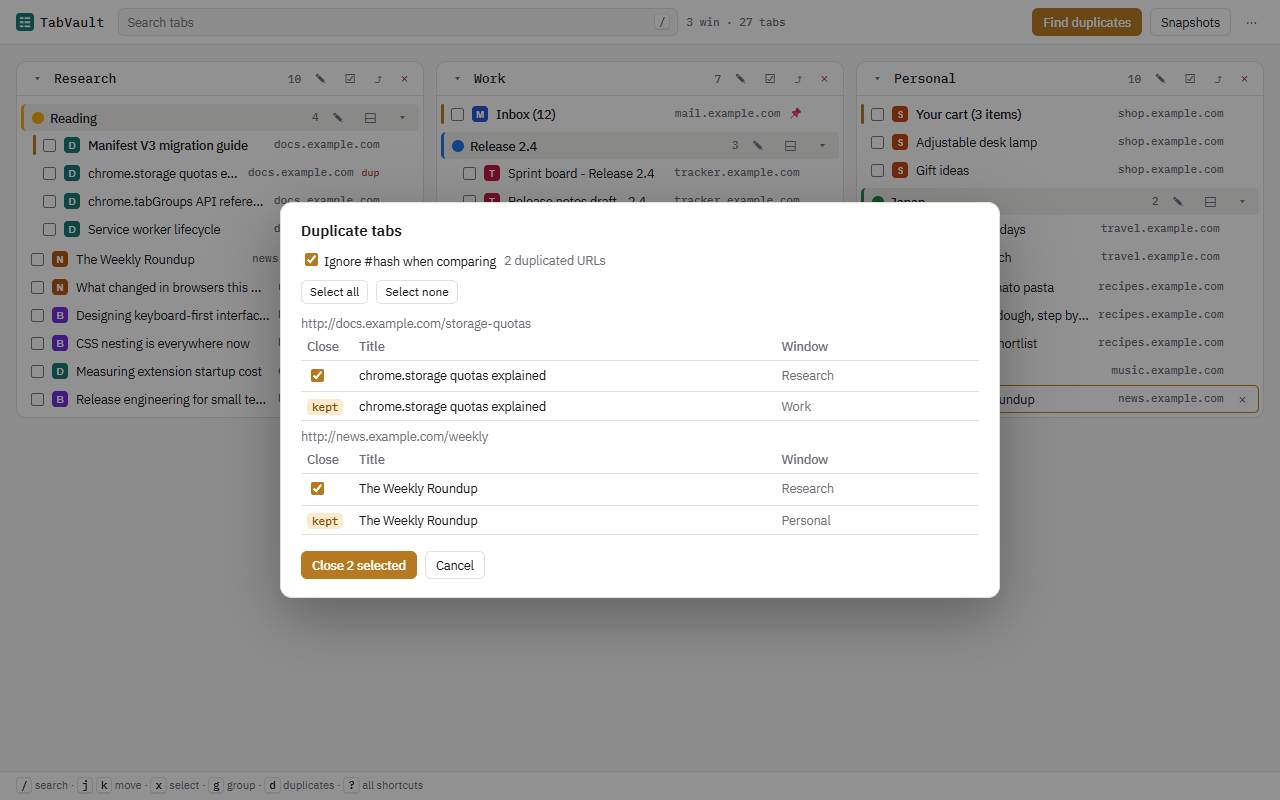
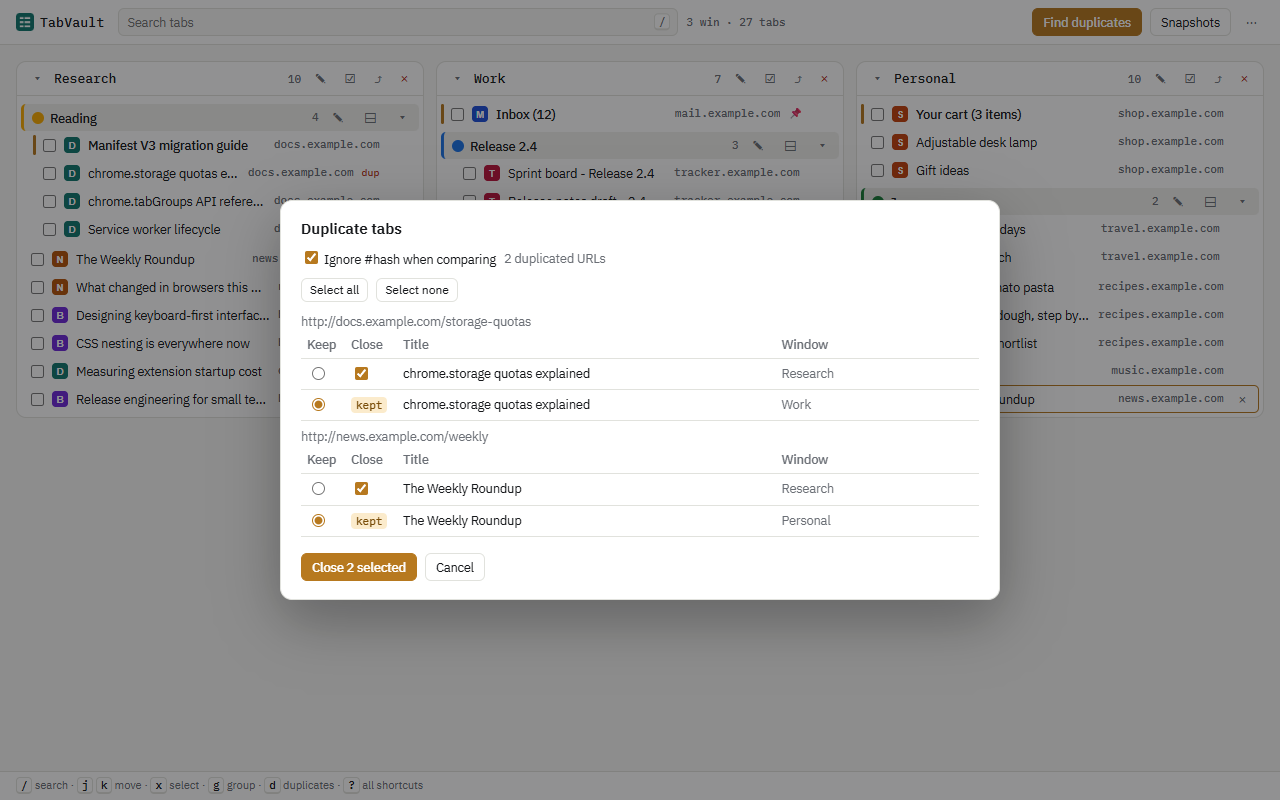
Duplicates: restore the per-group Keep choice
Fix round 1. Each row has a Keep radio again (the lib/dedupe.js pick is the
default); the kept row shows the "kept" marker and no checkbox, every other
row has a close checkbox, ticked by default. Changing Keep moves the marker
and gives the previously kept row a ticked checkbox. Select all / none and
"Close N selected" work over the non-kept rows.

e2e T now moves Keep in one group and asserts the newly kept tab survives,
the previously kept one is closed and the unticked duplicate survives.
Store listing, README and HISTORY describe the keep choice again;
screenshot 04 re-shot.

Claude-Session: https://claude.ai/code/session_01UNR1Jj1F1e65B68YPwVuUj

Changed region(s): [[0.2188, 0.25, 0.7812, 0.5312], [0.2188, 0.5625, 0.7812, 0.75], [0.5938, 0.4062, 0.6562, 0.5312]]

diff --git a/app/dialogs.js b/app/dialogs.js
@@ -33,24 +33,44 @@
         el("div", { class: "row" }, el("label", {}, el("input", { type: "checkbox", checked: ignoreHash ? "" : null, onchange: (e) => { ignoreHash = e.target.checked; draw(); } }), " Ignore #hash when comparing"), el("span", { class: "muted" }, `${groups.length} duplicated URL${groups.length === 1 ? "" : "s"}`)),
       );
       if (!groups.length) { box.append(el("p", { class: "muted" }, "No duplicates."), el("div", { class: "row" }, el("button", { onclick: closeDialog }, "Close"))); return; }
-      // Every extra copy (all but the kept one) is a checkbox, checked on each draw.
-      const boxes = [];
+      // Per group: a Keep radio on every row (the dedupe rule's pick by default). The kept row shows
+      // the "kept" marker; every other row has a close checkbox, all checked on each draw.
+      const keep = new Map(groups.map((g) => [g.url, g.keepId]));
+      const checked = new Map();
+      for (const g of groups) for (const { tab } of g.tabs) if (tab.id !== g.keepId) checked.set(tab.id, true);
       const go = el("button", { class: "primary", type: "button" });
-      const chosen = () => boxes.filter((b) => b.checked).map((b) => Number(b.dataset.tab));
+      const chosen = () => groups.flatMap((g) => g.tabs.map((x) => x.tab.id).filter((id) => id !== keep.get(g.url) && checked.get(id)));
       const update = () => { const n = chosen().length; go.textContent = `Close ${n} selected`; go.disabled = n === 0; };
-      const setAll = (on) => { for (const b of boxes) b.checked = on; update(); };
+      const bodies = new Map();
+      const drawRows = (g) => {
+        const kept = keep.get(g.url);
+        bodies.get(g.url).replaceChildren(...g.tabs.map(({ windowId, tab }) => {
+          const name = tab.title || tab.url;
+          const radio = el("input", { type: "radio", name: `keep-${g.url}`, checked: tab.id === kept ? "" : null, "aria-label": `Keep ${name}`, onchange: () => {
+            const prev = keep.get(g.url);
+            keep.set(g.url, tab.id);
+            checked.set(prev, true);
+            drawRows(g);
+            update();
+            const again = bodies.get(g.url).querySelector(`tr[data-tab="${tab.id}"] input[type=radio]`);
+            if (again) again.focus();
+          } });
+          const mark = tab.id === kept
+            ? el("span", { class: "kept" }, "kept")
+            : el("input", { type: "checkbox", checked: checked.get(tab.id) ? "" : null, dataset: { tab: String(tab.id) }, "aria-label": `Close ${name}`, onchange: (e) => { checked.set(tab.id, e.target.checked); update(); } });
+          return el("tr", { dataset: { tab: String(tab.id) } }, el("td", {}, radio), el("td", {}, mark), el("td", { title: tab.url }, name), el("td", { class: "muted wcell", title: windowCell(windowId) }, windowCell(windowId).slice(0, 40)));
+        }));
+      };
+      const setAll = (on) => {
+        for (const g of groups) { for (const { tab } of g.tabs) if (tab.id !== keep.get(g.url)) checked.set(tab.id, on); drawRows(g); }
+        update();
+      };
       const list = el("div", { class: "list" });
       for (const g of groups) {
-        const table = el("table", { class: "dupes" }, el("thead", {}, el("tr", {}, el("th", {}, "Close"), el("th", {}, "Title"), el("th", {}, "Window"))));
-        for (const { windowId, tab } of g.tabs) {
-          let first;
-          if (tab.id === g.keepId) first = el("span", { class: "kept" }, "kept");
-          else {
-            first = el("input", { type: "checkbox", checked: "", dataset: { tab: String(tab.id) }, "aria-label": `Close ${tab.title || tab.url}`, onchange: update });
-            boxes.push(first);
-          }
-          table.append(el("tr", { dataset: { tab: String(tab.id) } }, el("td", {}, first), el("td", { title: tab.url }, tab.title || tab.url), el("td", { class: "muted wcell", title: windowCell(windowId) }, windowCell(windowId).slice(0, 40))));
-        }
+        const body = el("tbody");
+        bodies.set(g.url, body);
+        drawRows(g);
+        const table = el("table", { class: "dupes" }, el("thead", {}, el("tr", {}, el("th", {}, "Keep"), el("th", {}, "Close"), el("th", {}, "Title"), el("th", {}, "Window"))), body);
         list.append(el("div", {}, el("div", { class: "muted", style: "word-break:break-all" }, g.url), table));
       }
       go.addEventListener("click", async () => {

diff --git a/e2e/run.js b/e2e/run.js
@@ -1122,7 +1122,14 @@ async function main() {
       }, mine);
       const spared = extrasA[0];
       await appPage.click(`#dialog tr[data-tab="${spared}"] input[type=checkbox]`);
-      const toClose = [extrasA[1], extraB];
+      // Keep the other copy in group B instead: the marker moves, the old kept copy gets a ticked checkbox.
+      await appPage.click(`#dialog tr[data-tab="${extraB}"] input[type=radio]`);
+      const swappedNew = await rowInfo(extraB);
+      const swappedOld = await rowInfo(keptB);
+      const oldBoxChecked = await appPage.$eval(`#dialog tr[data-tab="${keptB}"] input[type=checkbox]`, (b) => b.checked).catch(() => null);
+      const sparedStill = await appPage.$eval(`#dialog tr[data-tab="${spared}"] input[type=checkbox]`, (b) => b.checked);
+      assert(swappedNew.kept && !swappedNew.box && swappedOld.box && !swappedOld.kept && oldBoxChecked === true && sparedStill === false, `after Keep moved to ${extraB}: new ${JSON.stringify(swappedNew)}, old ${JSON.stringify(swappedOld)} checked=${oldBoxChecked}, spared checked=${sparedStill}`);
+      const toClose = [extrasA[1], keptB];
       const chosen = await buttonLabel();
       assert(chosen.text === `Close ${toClose.length} selected` && !chosen.disabled, `after unchecking ${spared}: ${JSON.stringify(chosen)}`);
       await appPage.click(`#dialog button:has-text("Close ${toClose.length} selected")`);
@@ -1134,12 +1141,12 @@ async function main() {
         }, created);
         return toClose.every((id) => !present.includes(id)) ? present : null;
       });
-      const expectedOpen = [keptA, spared, keptB].sort((a, b) => a - b);
+      const expectedOpen = [keptA, spared, extraB].sort((a, b) => a - b);
       assert(JSON.stringify([...open].sort((a, b) => a - b)) === JSON.stringify(expectedOpen), `tabs still open ${JSON.stringify(open)}, expected ${JSON.stringify(expectedOpen)}`);
       const toastText = await appPage.$eval("#toast", (n) => n.textContent);
       assert(toastText === `Closed ${toClose.length} duplicates`, `toast = "${toastText}"`);
       const foreignNote = foreign ? ` (and ${foreign} foreign row(s))` : "";
-      record("T", "PASS", `two groups (${urlA} x3, ${urlB} x2): kept rows carry the kept marker and no checkbox; default "Close ${total} selected", Select none -> "Close 0 selected" disabled, Select all -> back; unchecked ${spared}${foreignNote} -> "${chosen.text}"; closed exactly ${JSON.stringify(toClose)}; still open ${JSON.stringify(expectedOpen)} incl. the unchecked ${spared}; toast "${toastText}"`);
+      record("T", "PASS", `two groups (${urlA} x3, ${urlB} x2): kept rows carry the kept marker and no checkbox; default "Close ${total} selected", Select none -> "Close 0 selected" disabled, Select all -> back; unchecked ${spared}${foreignNote}, moved Keep in group B from ${keptB} to ${extraB} (marker moved, ${keptB} got a ticked checkbox) -> "${chosen.text}"; closed exactly ${JSON.stringify(toClose)}; still open ${JSON.stringify(expectedOpen)} incl. the unchecked ${spared} and the newly kept ${extraB}, previously kept ${keptB} closed; toast "${toastText}"`);
       await (await worker()).evaluate((ids) => chrome.tabs.remove(ids).catch(() => {}), open);
     } catch (e) {
       record("T", "FAIL", e.message);

diff --git a/app/index.html b/app/index.html
@@ -158,7 +158,8 @@
     #dialog .list { max-height: 50vh; overflow: auto; }
     #dialog button.small { padding: 2px 8px; font-size: 12px; }
     #dialog table.dupes { table-layout: fixed; margin-bottom: 6px; }
-    #dialog table.dupes th:first-child { width: 52px; }
+    #dialog table.dupes th:first-child { width: 44px; }
+    #dialog table.dupes th:nth-child(2) { width: 52px; }
     #dialog table.dupes th:last-child { width: 30%; }
     #dialog table.dupes td { overflow: hidden; text-overflow: ellipsis; white-space: nowrap; }
     #dialog .kept { font: 500 11px var(--mono); color: var(--pText); background: var(--pSoft); border-radius: 4px; padding: 1px 5px; }

diff --git a/docs/store/listing.md b/docs/store/listing.md
@@ -109,7 +109,7 @@ WHAT YOU CAN DO
 • Select tabs with checkboxes, Ctrl/Cmd-click or Shift-click ranges, then move them to another window, group them, pin them, unload them or close them in bulk.
 • Drag a tab row onto another window's card, or onto a group, to move it there.
 • Create, rename, recolour, collapse and ungroup native tab groups.
-• Find tabs that share a URL and close the extra copies you tick, row by row; the most recently used copy is always kept.
+• Find tabs that share a URL, choose which copy to keep and which extra copies to close, row by row.
 • Navigate entirely from the keyboard: j and k (or the arrows) to move, x to select, g to group, d for duplicates, Enter to go to a tab, Delete to close, ? for the full list. The shortcuts are always shown at the bottom of the page.
 • Light and dark themes that follow Chrome, or pick one in Settings.
 
@@ -140,7 +140,7 @@ Open source, plain HTML and JavaScript, no build step and no dependencies, MIT l
 | Screenshots (upload in this order) | `docs/store/screenshots/01-all-windows.png` — the whole session: three named window cards (Research, Work, Personal), three colour-coded tab groups, a pinned tab, the header counter and the shortcut strip | 1280×800 |
 | | `docs/store/screenshots/02-search.png` — searching "release": only matching tabs remain, the counter reads "3 win · 4 of 27 tabs" | 1280×800 |
 | | `docs/store/screenshots/03-selection.png` — four tabs selected with the floating bar: Move to ▾, Group, Pin, Discard, Close, Esc to clear | 1280×800 |
-| | `docs/store/screenshots/04-duplicates.png` — the duplicate finder listing two duplicated URLs: the kept copy marked, a checkbox on each extra copy, Select all / Select none, and the "Close 2 selected" button | 1280×800 |
+| | `docs/store/screenshots/04-duplicates.png` — the duplicate finder listing two duplicated URLs: a Keep radio per copy with the kept copy marked, a close checkbox on each extra copy, Select all / Select none, and the "Close 2 selected" button | 1280×800 |
 | | `docs/store/screenshots/05-snapshots.png` — the snapshot list: automatic, startup and a kept manual snapshot, with Restore/Export/Keep/Delete | 1280×800 |
 | Small promo tile | `docs/store/promo-tile-440x280.png` | 440×280 |
 | Marquee promo tile | leave empty (optional) | 1400×560 |
@@ -298,7 +298,7 @@ NEW IN 1.1
 • Pick a group's colour from eight dots.
 • Selected tabs get a floating bar: Move to, Group, Pin, Discard, Close. Esc clears it.
 • More keyboard: j and k to move, x to select, g to group, d for duplicates, ? for every shortcut, with a hint strip at the bottom.
-• Duplicates: choose which copies to close, row by row.
+• Duplicates: choose which copy to keep and which extra copies to close, row by row.
 • About in the ⋯ menu: version, the open-source repository, privacy policy.
 • Fonts are bundled with the extension. TabVault still sends nothing to any server of its own and has no analytics; the only network activity is the browser fetching each tab's favicon from that tab's own site, as in 1.0.
 ```

diff --git a/docs/HISTORY.md b/docs/HISTORY.md
@@ -47,5 +47,5 @@ Result: 23 unit tests, 13 e2e scenarios (I-b PASS or LIMITED depending on the en
 - Floating bulk bar with a Move-to menu; Esc closes a menu first, then clears. One shortcut table (`lib/shortcuts.js`) drives the key handler, the hint strip and the `?` panel; new keys `j` `k` `x` `g` `d`.
 - Rulings made in the plan: an explicit Light/Dark choice is mirrored to `localStorage` and applied by `app/theme-boot.js` before first paint (MV3 forbids inline scripts; "System" needs no script); window names use Plex Mono Medium because only 500 is bundled; Pin and Group read Unpin and Ungroup when every selected tab already is, so 1.0's Unpin and Ungroup survive; the picker offers the spec's eight colours and an existing orange group still renders orange; unnamed windows show the active tab's title; `dup` uses the whole session and the `ignoreHash` setting; the muted flag stays; the page scrolls instead of each card.
 - Store screenshots regenerated in the new look (light theme, RGB without alpha, written by `tools/screenshots.js` itself).
-- Pre-upload additions (branch `feature/about-and-dup-choice`): the duplicates dialog now closes only the extra copies you tick (a checkbox per extra copy, all ticked on each draw including after toggling Ignore #hash, Select all / Select none, a `Close N selected` button disabled at 0; the kept-copy rule in `lib/dedupe.js` is unchanged, so choosing which copy to keep by radio is gone); an About dialog in the ⋯ menu (version from the manifest, repository, issues and privacy links, font credits, nothing fetched) and `homepage_url` in the manifest. e2e scenarios S (About) and T (per-row duplicates) added; G now uses the new button label.
+- Pre-upload additions (branch `feature/about-and-dup-choice`): the duplicates dialog now closes only the extra copies you tick (a Keep radio per copy as in 1.0, defaulting to the `lib/dedupe.js` pick, which is unchanged; a close checkbox on every other copy, all ticked on each draw including after toggling Ignore #hash; changing Keep moves the kept marker and gives the previously kept copy a ticked checkbox; Select all / Select none; a `Close N selected` button disabled at 0); an About dialog in the ⋯ menu (version from the manifest, repository, issues and privacy links, font credits, nothing fetched) and `homepage_url` in the manifest. e2e scenarios S (About) and T (per-row duplicates) added; G now uses the new button label.
 - Result: 36 unit tests, 21 e2e scenarios (I-b PASS or LIMITED as before).

diff --git a/README.md b/README.md
@@ -34,7 +34,7 @@ To load the extension from a distributable zip instead, see [Publishing](#publis
 - **Selection** — click a tab's checkbox, or click the row (Ctrl/Cmd-click to toggle one tab, Shift-click to select a range within a window). The floating selection bar at the bottom shows a count and the bulk actions.
 - **Move** — drag a tab row onto another window's card (or onto a group, to move it into that group), or select tabs and choose a window from **Move to ▾** in the floating selection bar. "New window" opens the selection in a fresh window.
 - **Groups** — select tabs and click **Group** to create a native tab group; click a group's ✎ to rename it, pick one of its eight colour dots to recolor it, and **⊟** to ungroup. Click a group's header to collapse/expand it.
-- **Duplicates** — click **Find duplicates** to see tabs that share a URL (optionally ignoring `#hash`), and close the extra copies you choose: each extra copy has a checkbox (all ticked by default, with **Select all** / **Select none**), the most recently used copy is marked "kept", and **Close N selected** closes only the ticked rows.
+- **Duplicates** — click **Find duplicates** to see tabs that share a URL (optionally ignoring `#hash`), and choose which copy to keep and which extra copies to close, row by row: each copy has a **Keep** radio (the most recently used copy is picked by default and marked "kept"), every other copy has a close checkbox (all ticked by default, with **Select all** / **Select none**), and **Close N selected** closes only the ticked rows.
 - **Snapshots** — click **Snapshots** to browse automatic and manual snapshots, restore one (into new windows), export it to a file, keep it so it's never rotated away, or delete it. **Snapshot now** takes one immediately.
 - **Export** — click **Export** to download the current session (all windows, tabs, groups, pinned state and positions) as a JSON file.
 - **Import** — click **Import**, pick a previously exported (or snapshot-exported) JSON file (up to 50 MB), choose which of its windows to restore, and click **Restore selected windows**. Each window reopens with the same tabs, groups and pinned state; with the **Settings** → "Load restored tabs only when opened (lazy)" option on (the default), only the first tab in each window loads right away and the rest load the next time you click them.
